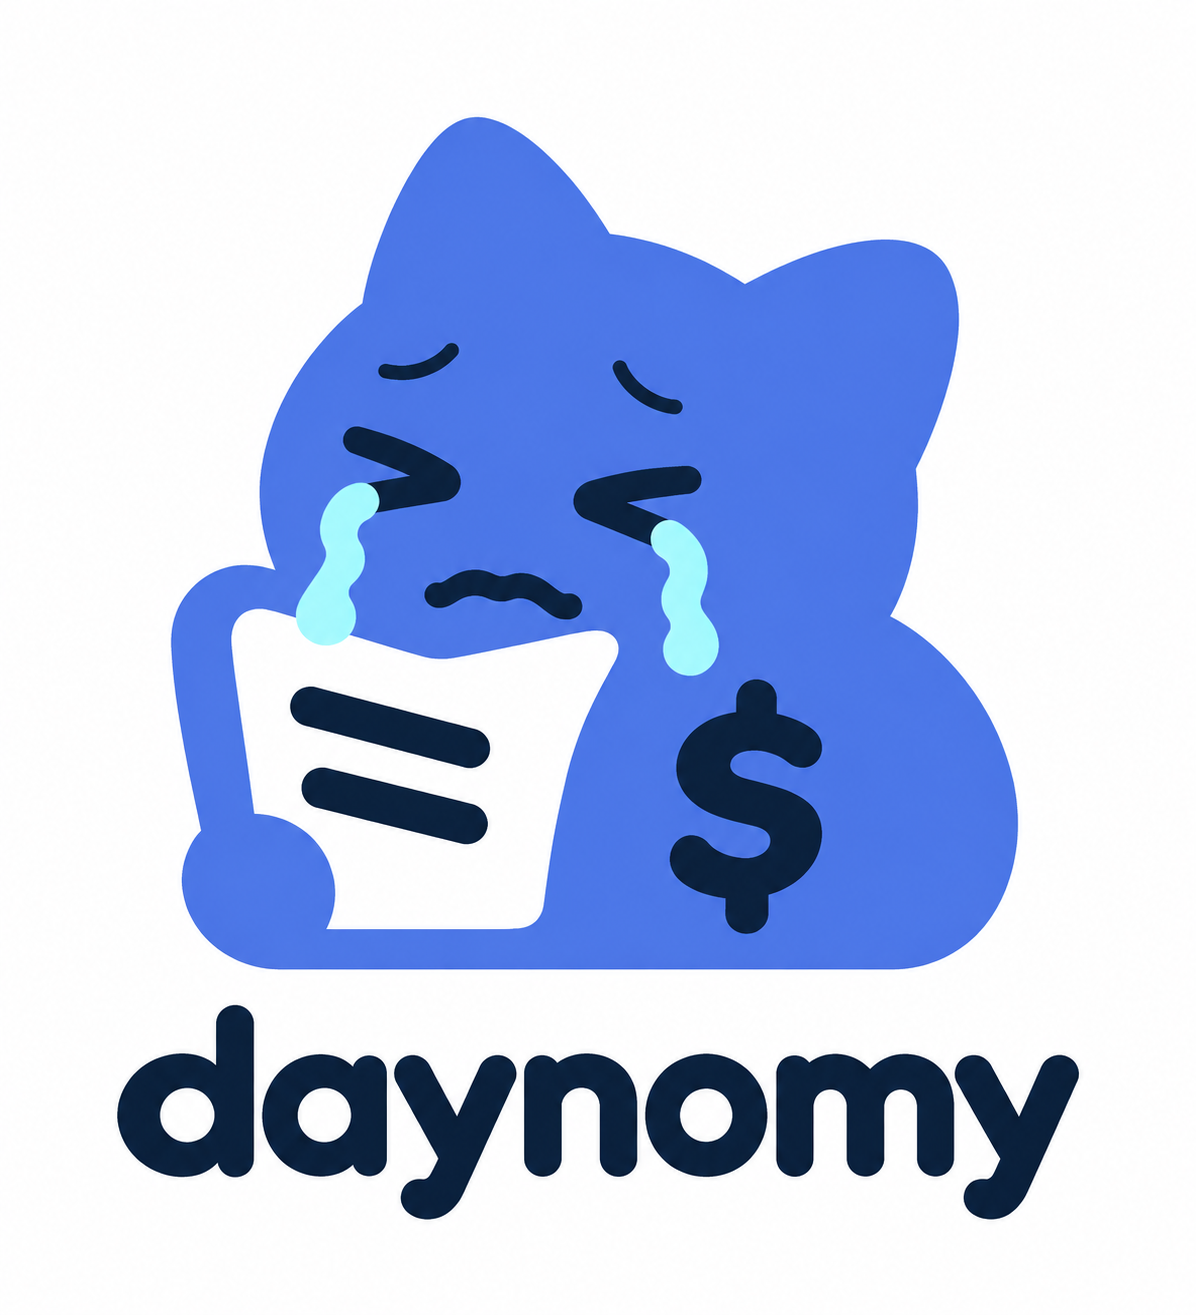
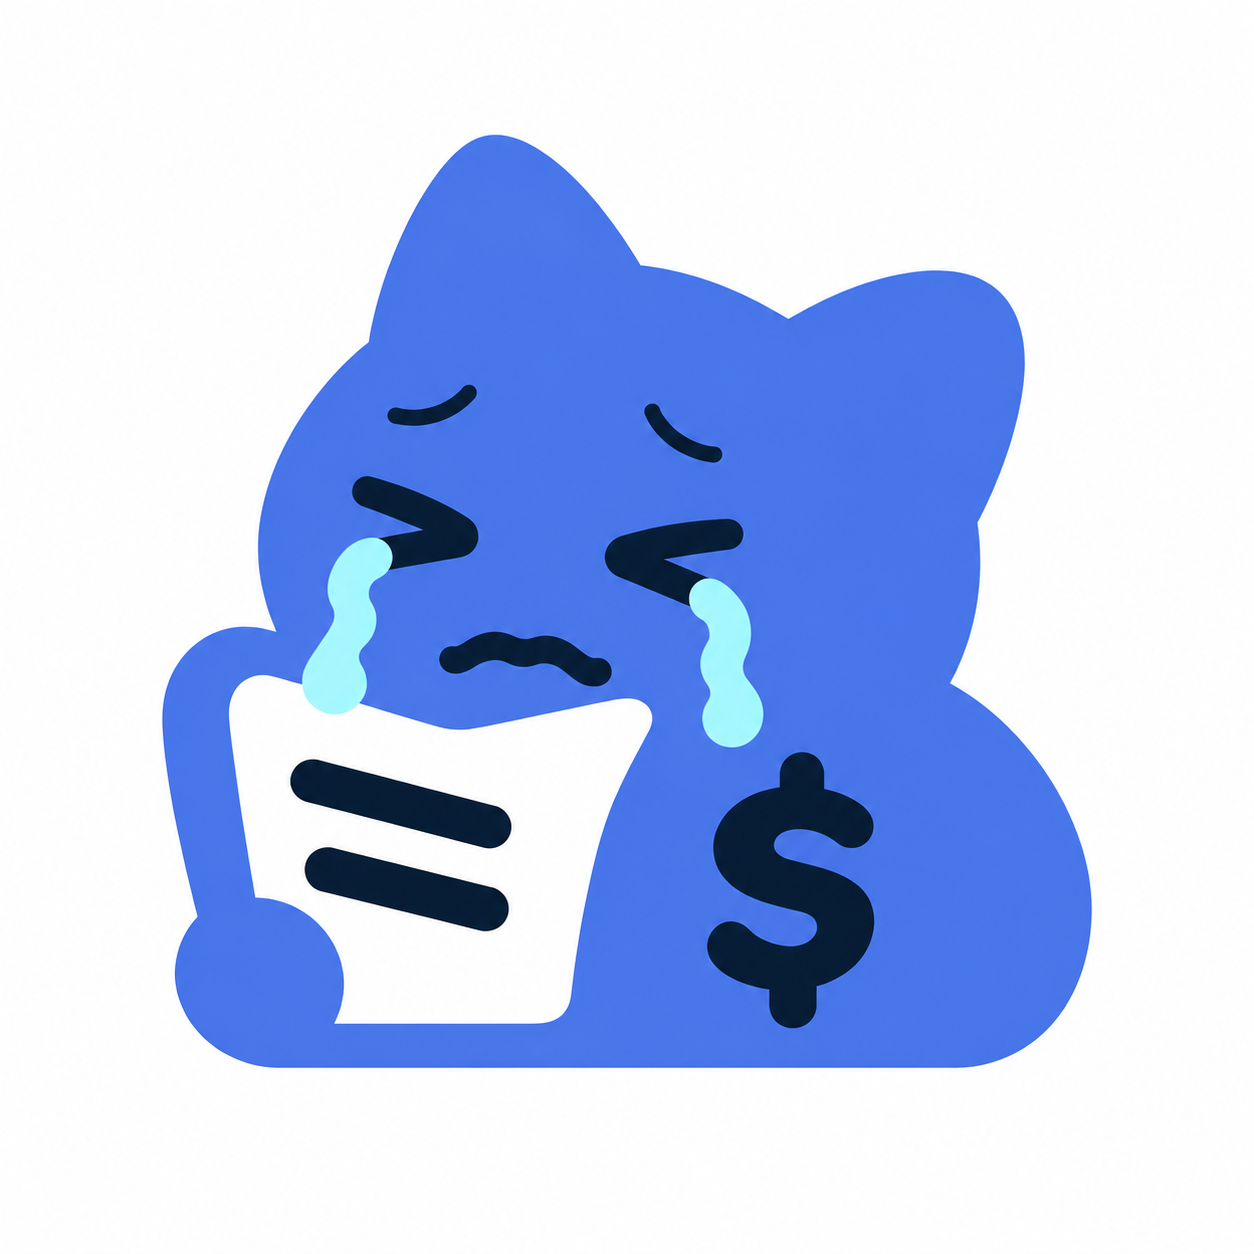
fix: 빈 소식 고양이 이미지에서 데이노미 글자 제거

Changed region(s): [[0.0928, 0.0933, 0.8972, 0.933], [0.2166, 0.2177, 0.3094, 0.3732]]

diff --git a/frontend/src/features/stock-content/StockNewsEmptyState.tsx b/frontend/src/features/stock-content/StockNewsEmptyState.tsx
@@ -5,7 +5,7 @@ import './stockNewsEmptyState.css';
 export function StockNewsEmptyState({ title }: { title: string }) {
   return (
     <div className="stock-news-empty">
-      <img src={cryingCat} alt="" width="180" height="198" />
+      <img src={cryingCat} alt="" width="180" height="180" />
       <div className="stock-news-empty-copy">
         <p className="stock-news-empty-title">{title}</p>
         <p className="stock-news-empty-description">

diff --git a/design-qa.md b/design-qa.md
@@ -1,5 +1,6 @@
 # 종목 소식 빈 화면 — FE #887
 
+- 후속 자산 수정: 사용자 요청으로 고양이 아래 `daynomy` 글자를 제거한 정사각형 이미지로 교체했다. 내장 imagegen 프롬프트는 “워드마크만 제거하고 파란 몸체·우는 표정·신문·달러 표시를 유지, 흰 배경의 정사각형으로 배치”다. 이미지 크기 속성도 180×180으로 맞췄다. 아래 화면 캡처는 교체 전 검증 기록이며, 이번 자산 교체 후 브라우저 검증은 별도로 진행하지 않았다.
 - 기준 시안: 이슈 #887의 파란 고양이 최종 승인 시안 (1521×1034px).
 - 구현 캡처: 로컬 검증 산출물 `desktop.png`, `mobile.png`, `mobile-320.png`, `panel.png`. 개인 로컬 경로와 캡처 파일은 저장소에 포함하지 않는다.
 - 뷰포트: 1440×1024, 390×844, 320×740 CSS px, 캡처 1배. 패널은 440px 컨테이너에서도 확인했다. 실제 컴포넌트와 CSS에 빈 콘텐츠 응답을 주입한 임시 검증 페이지를 사용하고 검증 후 제거했다.
